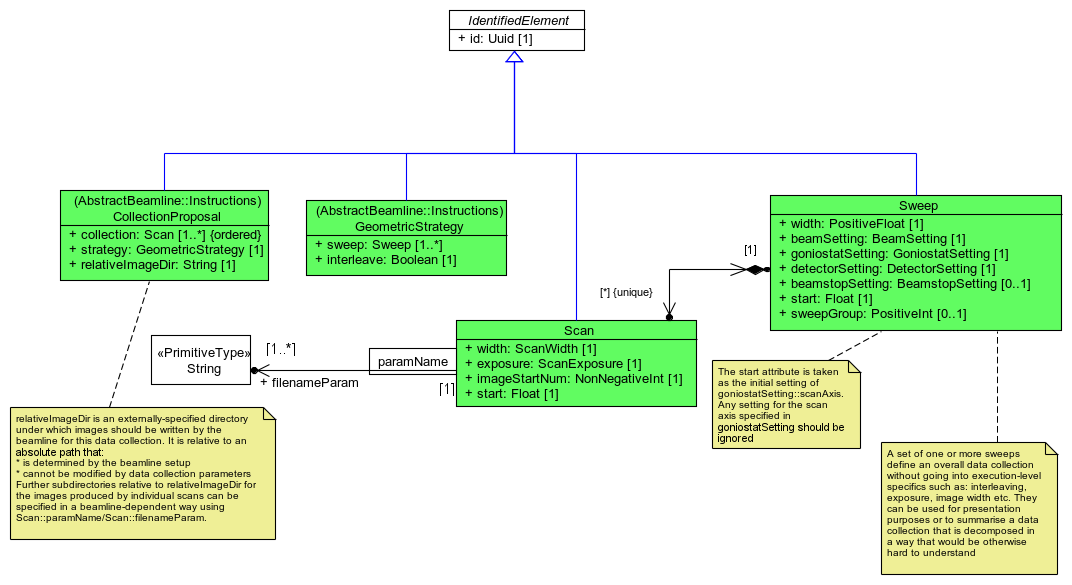
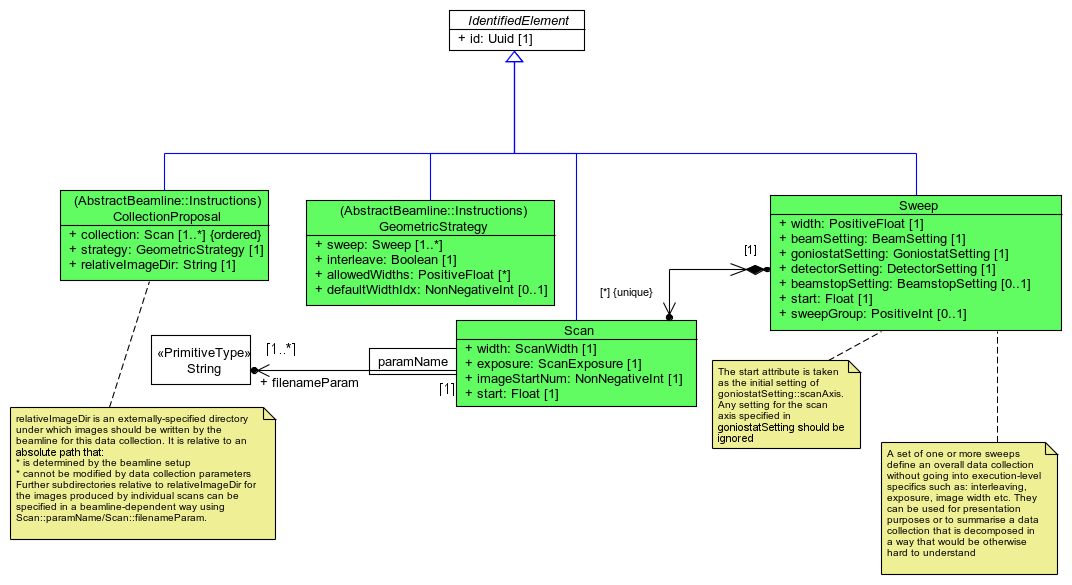
Handle acceptable image widths in standalone strategy definitions

Changed region(s): [[0.2771, 0.3385, 0.5233, 0.5231]]

diff --git a/com.globalphasing.sdcp.abstract_beamline/src/co/gphl/beamline/v2_unstable/data_collection/GeometricStrategy.java b/com.globalphasing.sdcp.abstract_beamline/src/co/gphl/beamline/v2_unstable/data_collection/GeometricStrategy.java
@@ -14,6 +14,7 @@
 package co.gphl.beamline.v2_unstable.data_collection;
 
 import java.io.Serializable;
+import java.util.List;
 import java.util.Set;
 
 import co.gphl.beamline.v2_unstable.IdentifiedElement;
@@ -26,5 +27,6 @@ public interface GeometricStrategy extends Serializable, IdentifiedElement {
 
     Set<Sweep> getSweep();
     boolean isInterleave();
-    
+    List<Double> getAllowedWidths();
+    int getDefaultWidthIdx();
 }
